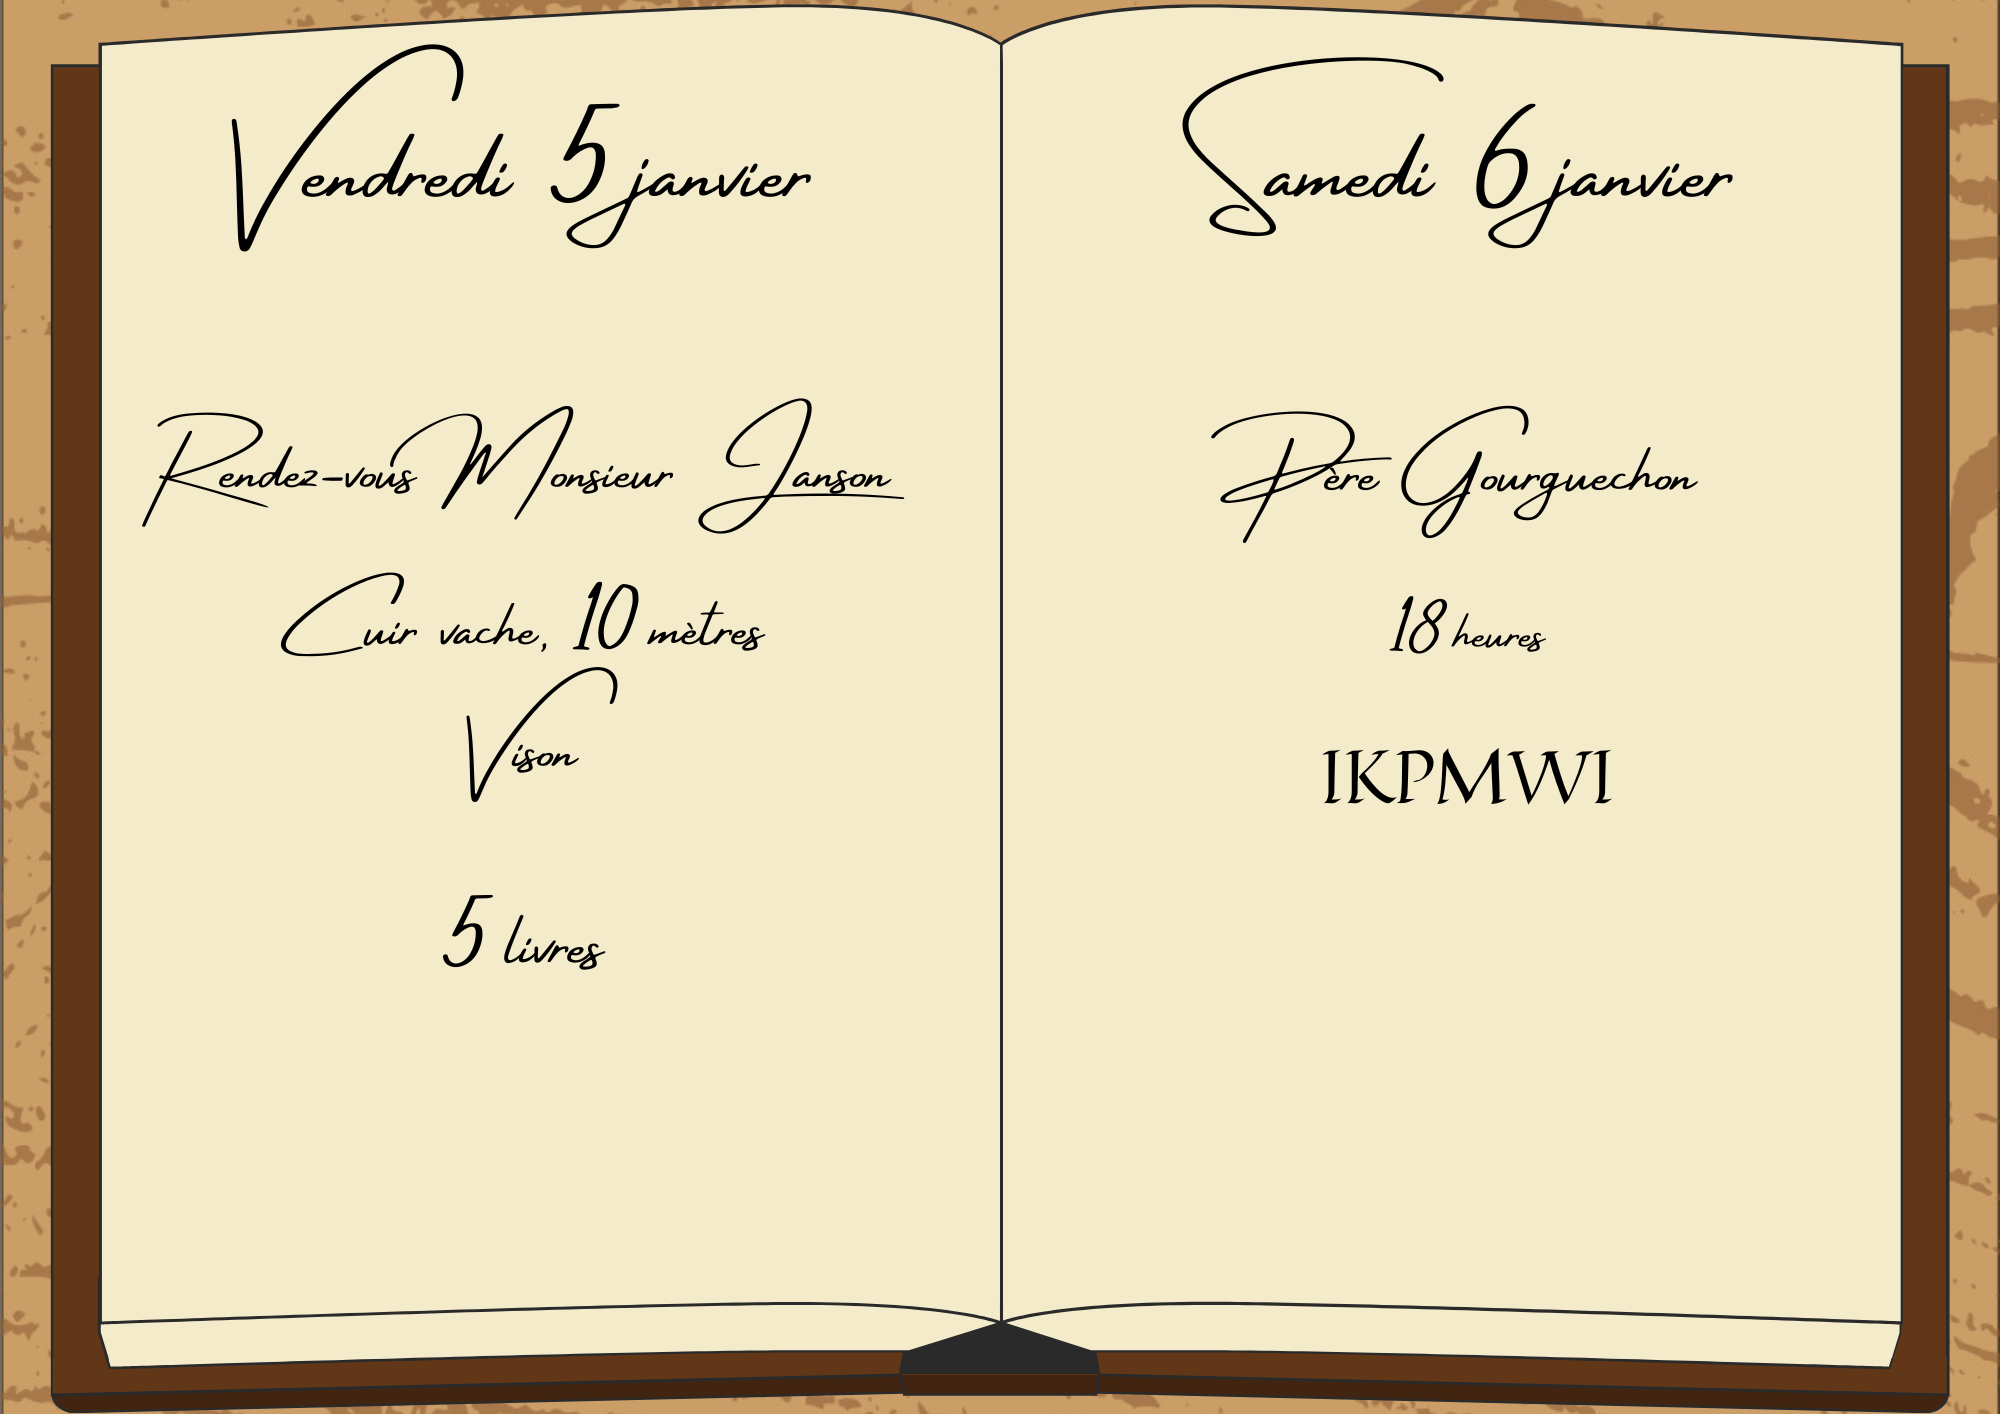
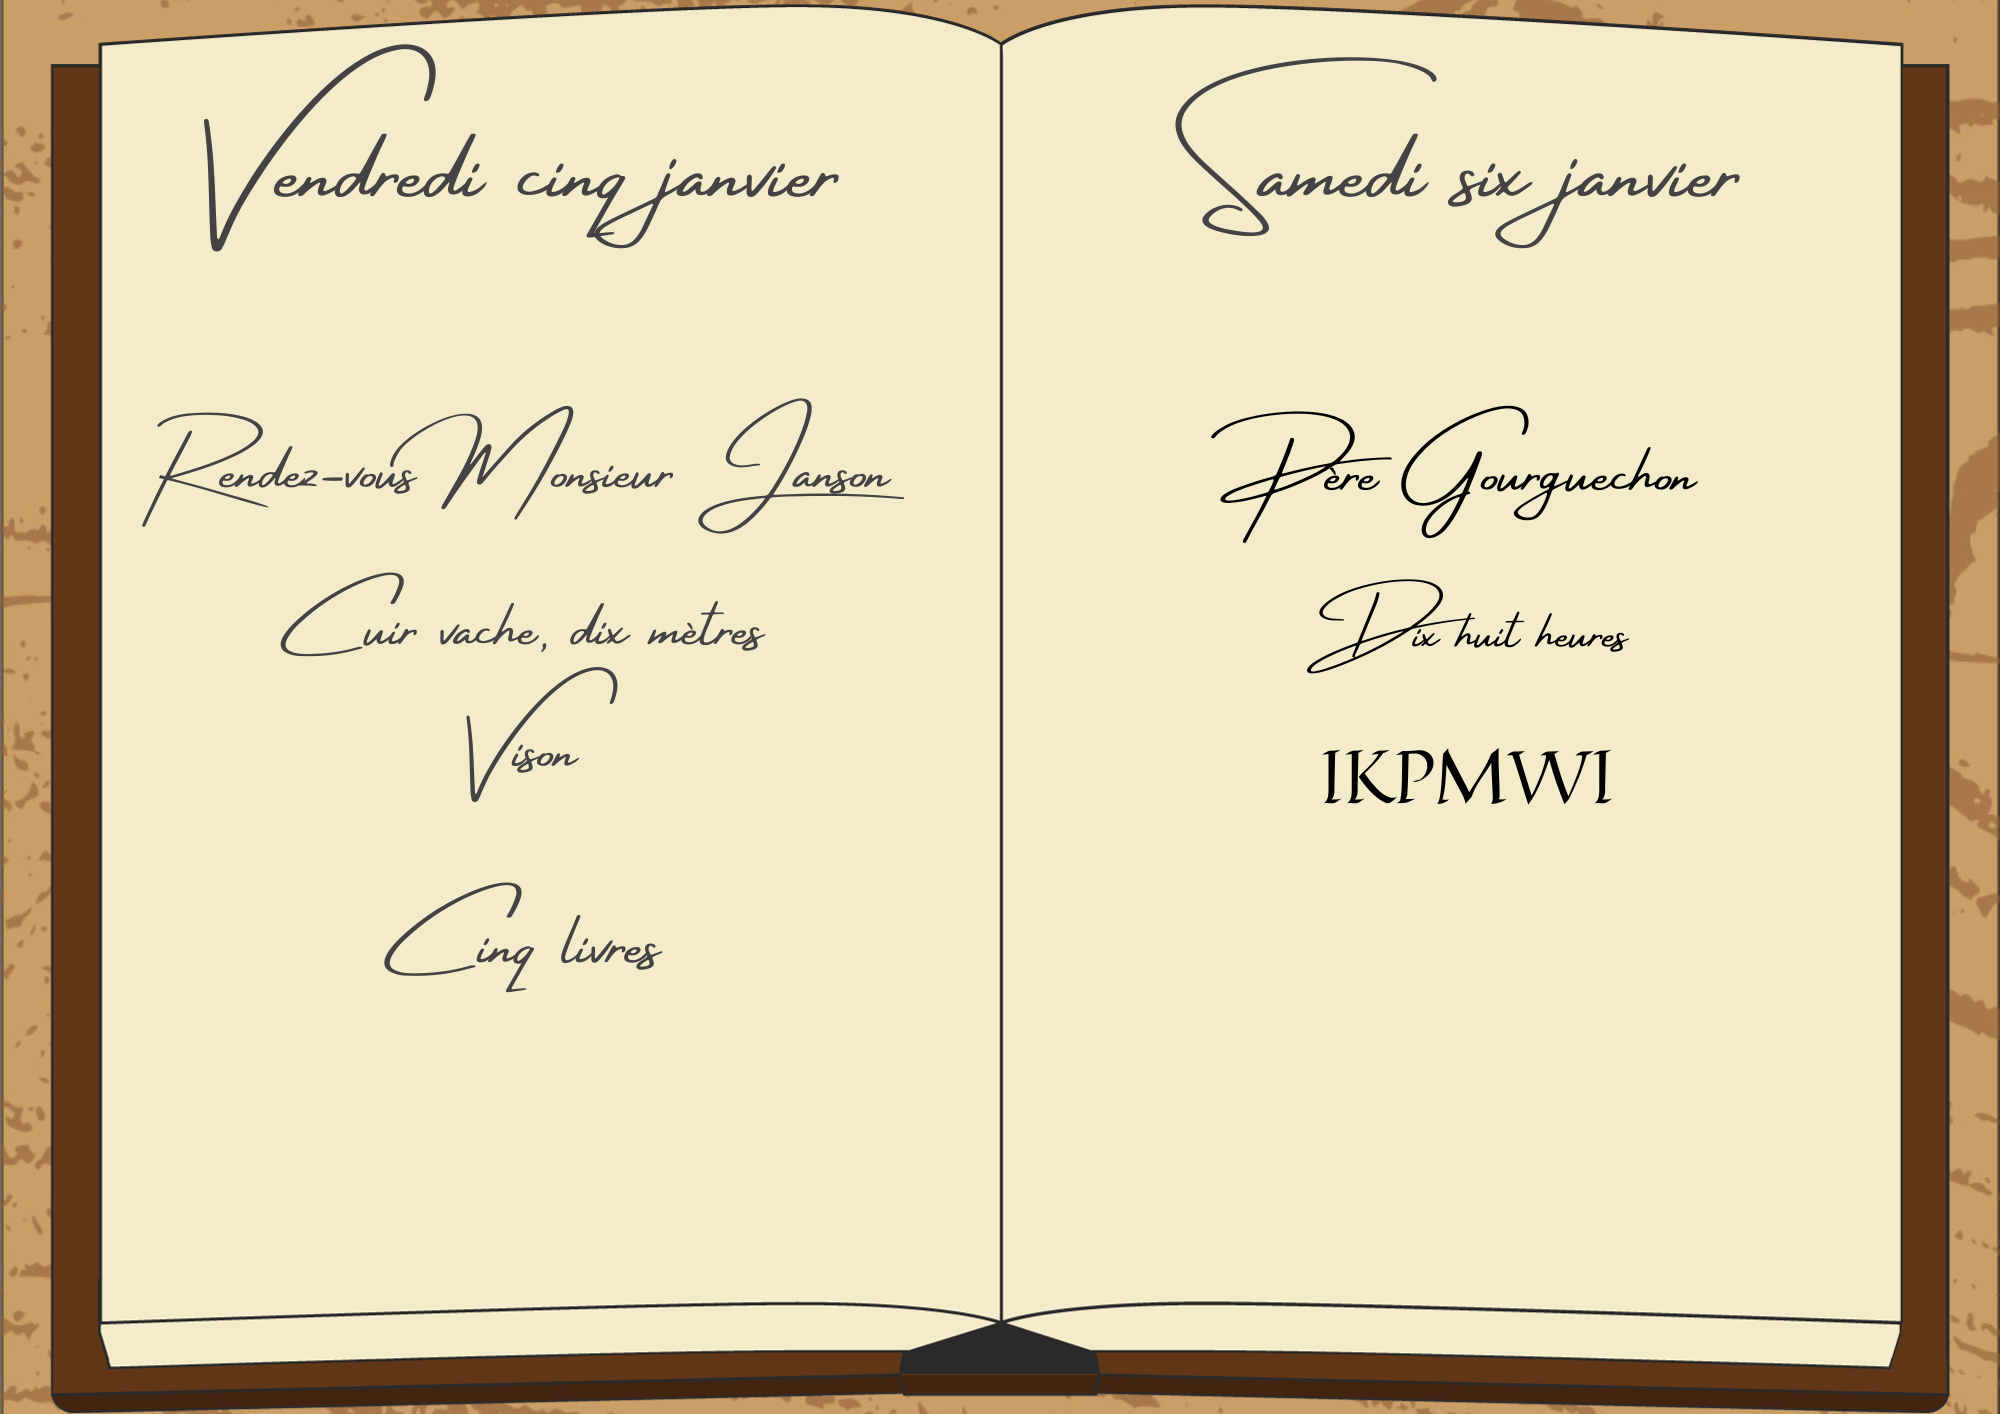
Updated tips and changed few documents for last Seq

diff --git a/escaposaurus_examplegamedata/escaposaurus_exampledata.js b/escaposaurus_examplegamedata/escaposaurus_exampledata.js
@@ -125,13 +125,13 @@
 		tips['Albert'] = [] ;
 		tips['Albert'][0] = "Pourquoi avoir marqué S.O.N.N.E à côté du dessin de la boussole? Ces lettres ont-elles une autre signification ? On retrouve aussi la boussole sur le tableau de Louis XVI..." ;
 		tips['Albert'][1] = "Isaac était visiblement contre la révolution. Cela veut dire qu'il a dû utiliser l'ancien calendrier commençant avec la naissance de Jesus Christ pour vérouiller ce coffre..." ;
-		tips['Albert'][2] = "Aujourd'hui nous somme le Samedi 6, cela veut dire qu'Isaac est censé rejoindre le Père Gourguechon d'après son agenda mais il a chiffé l'endroit du rendez-vous... Mais qu'elle est la clef pour déchiffrer ce code..." ;
+		tips['Albert'][2] = "D'après son agenda, Isaac est censé rejoindre le Père Gourguechon aujourd'hui, mais il a chiffé l'endroit du rendez-vous... Mais qu'elle est la clé pour déchiffrer ce code..." ;
 		tips['Albert'][3] = "" ;
 
 
 		/*text for the instruction / solution windows*/
 		var instructionText = {} ;
-		instructionText.winState = "Vous avez retrouvé l'id GPS et vous pouvez appeler les secours du secteur." ;
+		instructionText.winState = "Vous avez retrouvé la lettre et résolu l'affaire." ;
 		instructionText.lackMainHint = "" ;
 		instructionText.password = "Vous devez trouver et entrer le mot de passe d'un des dossiers de la boite de droite. Vous pouvez trouver le mot de passe en appelant les contacts de la boite de gauche.<br/>Pour entrer un mot de passe, cliquez sur le nom d'un dossier et une fenêtre s'affichera pour que vous puissiez donner le mot de passe." ;
 
